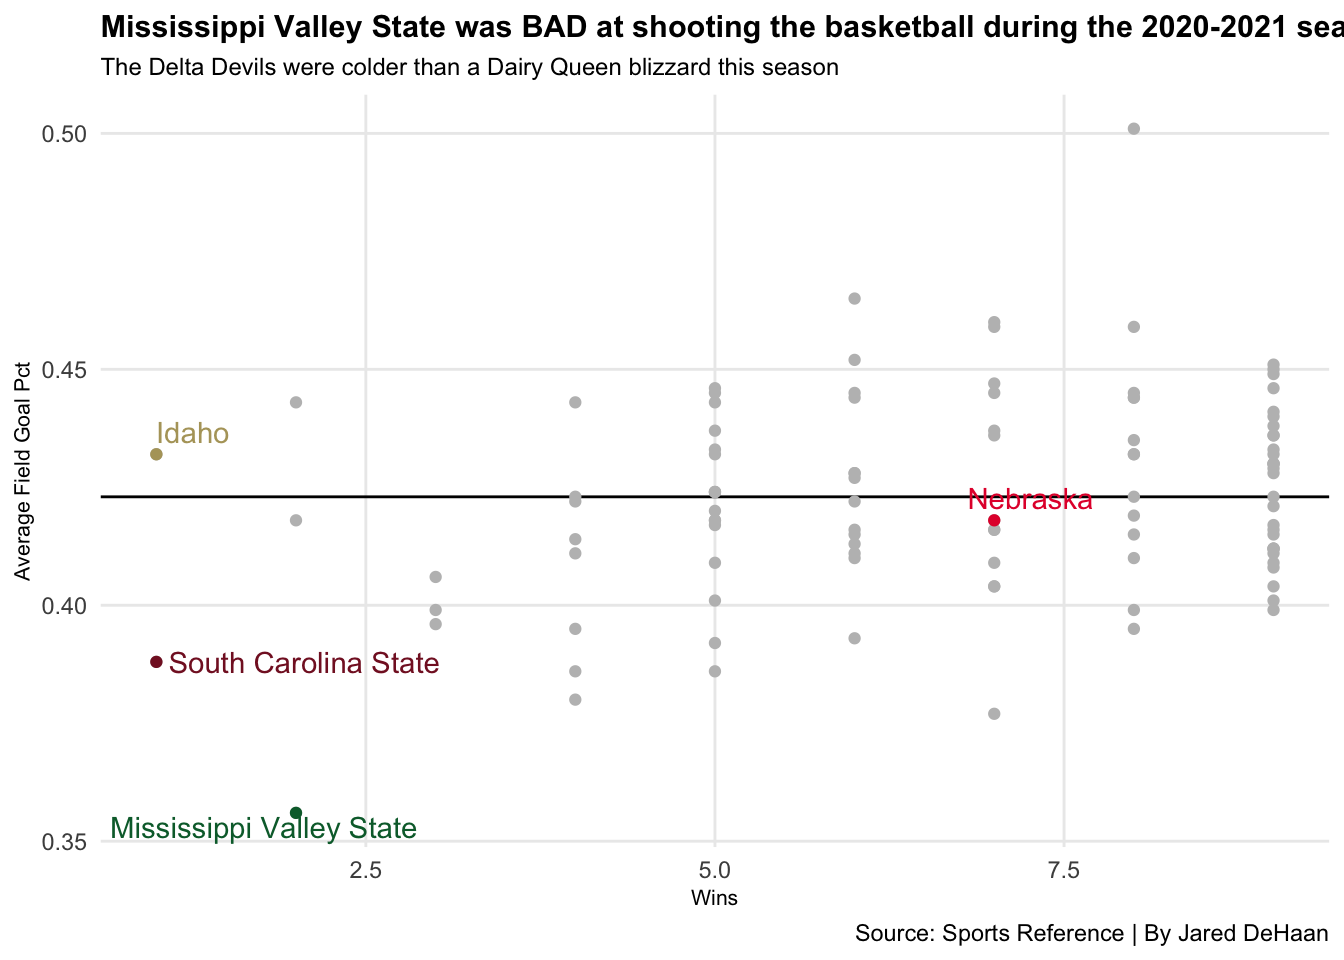
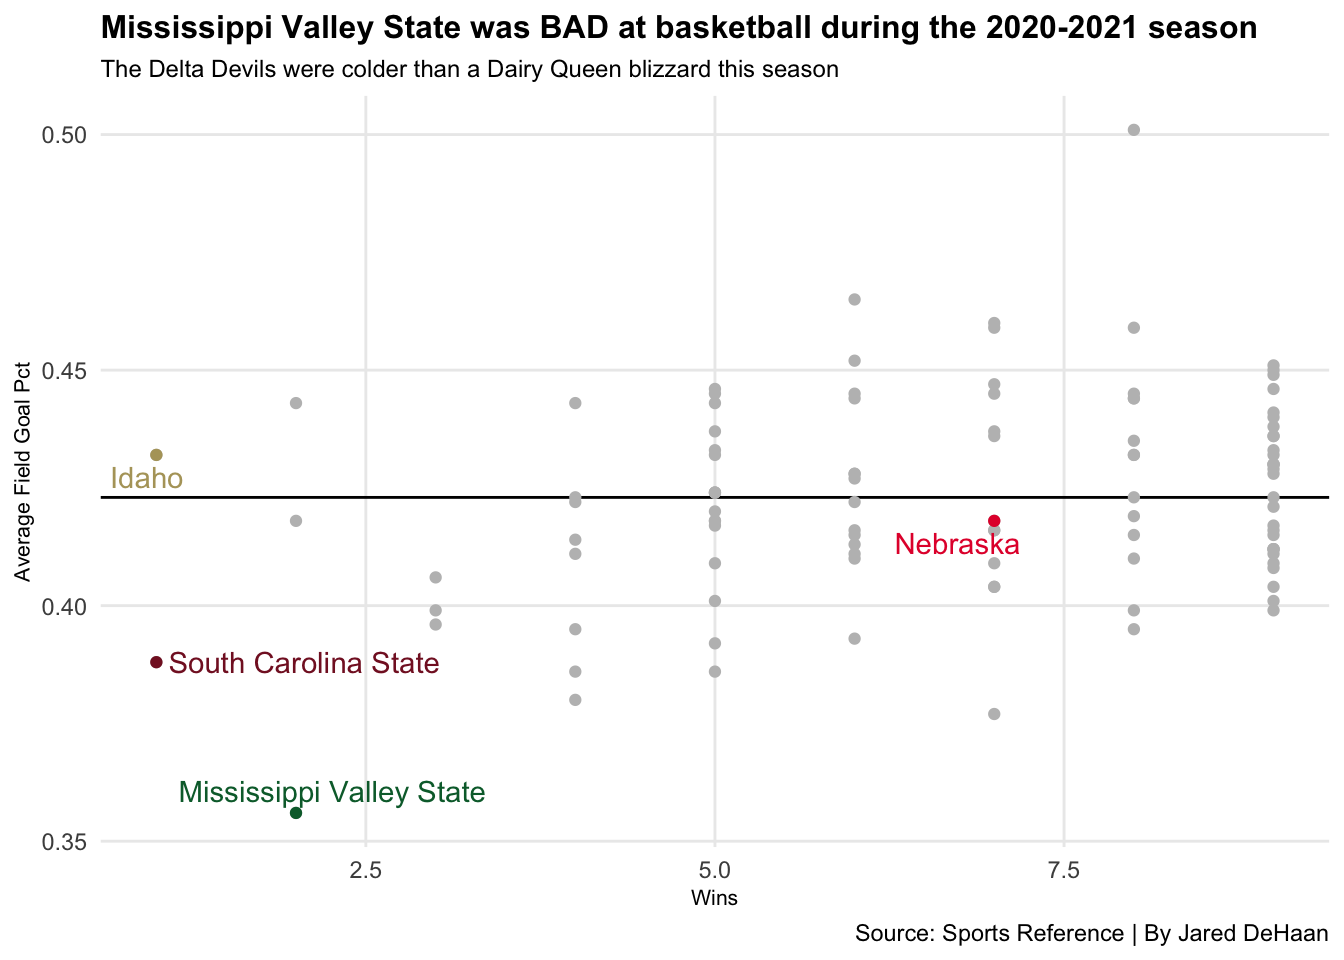
Ha

diff --git a/2021/04/21/who-was-the-worst-offensive-college-basketball-team-this-season/index.html b/2021/04/21/who-was-the-worst-offensive-college-basketball-team-this-season/index.html
@@ -184,7 +184,7 @@ library(gt)</code></pre>
   font-family: -apple-system, BlinkMacSystemFont, 'Segoe UI', Roboto, Oxygen, Ubuntu, Cantarell, 'Helvetica Neue', 'Fira Sans', 'Droid Sans', Arial, sans-serif;
 }
 
-#rtiglfirsu .gt_table {
+#kopaxzyhpr .gt_table {
   display: table;
   border-collapse: collapse;
   margin-left: auto;
@@ -209,7 +209,7 @@ library(gt)</code></pre>
   border-left-color: #D3D3D3;
 }
 
-#rtiglfirsu .gt_heading {
+#kopaxzyhpr .gt_heading {
   background-color: #FFFFFF;
   text-align: center;
   border-bottom-color: #FFFFFF;
@@ -221,7 +221,7 @@ library(gt)</code></pre>
   border-right-color: #D3D3D3;
 }
 
-#rtiglfirsu .gt_title {
+#kopaxzyhpr .gt_title {
   color: #333333;
   font-size: 125%;
   font-weight: initial;
@@ -231,7 +231,7 @@ library(gt)</code></pre>
   border-bottom-width: 0;
 }
 
-#rtiglfirsu .gt_subtitle {
+#kopaxzyhpr .gt_subtitle {
   color: #333333;
   font-size: 85%;
   font-weight: initial;
@@ -241,13 +241,13 @@ library(gt)</code></pre>
   border-top-width: 0;
 }
 
-#rtiglfirsu .gt_bottom_border {
+#kopaxzyhpr .gt_bottom_border {
   border-bottom-style: solid;
   border-bottom-width: 2px;
   border-bottom-color: #D3D3D3;
 }
 
-#rtiglfirsu .gt_col_headings {
+#kopaxzyhpr .gt_col_headings {
   border-top-style: solid;
   border-top-width: 2px;
   border-top-color: #D3D3D3;
@@ -262,7 +262,7 @@ library(gt)</code></pre>
   border-right-color: #D3D3D3;
 }
 
-#rtiglfirsu .gt_col_heading {
+#kopaxzyhpr .gt_col_heading {
   color: #333333;
   background-color: #FFFFFF;
   font-size: 100%;
@@ -282,7 +282,7 @@ library(gt)</code></pre>
   overflow-x: hidden;
 }
 
-#rtiglfirsu .gt_column_spanner_outer {
+#kopaxzyhpr .gt_column_spanner_outer {
   color: #333333;
   background-color: #FFFFFF;
   font-size: 100%;
@@ -294,15 +294,15 @@ library(gt)</code></pre>
   padding-right: 4px;
 }
 
-#rtiglfirsu .gt_column_spanner_outer:first-child {
+#kopaxzyhpr .gt_column_spanner_outer:first-child {
   padding-left: 0;
 }
 
-#rtiglfirsu .gt_column_spanner_outer:last-child {
+#kopaxzyhpr .gt_column_spanner_outer:last-child {
   padding-right: 0;
 }
 
-#rtiglfirsu .gt_column_spanner {
+#kopaxzyhpr .gt_column_spanner {
   border-bottom-style: solid;
   border-bottom-width: 2px;
   border-bottom-color: #D3D3D3;
@@ -314,7 +314,7 @@ library(gt)</code></pre>
   width: 100%;
 }
 
-#rtiglfirsu .gt_group_heading {
+#kopaxzyhpr .gt_group_heading {
   padding: 8px;
   color: #333333;
   background-color: #FFFFFF;
@@ -336,7 +336,7 @@ library(gt)</code></pre>
   vertical-align: middle;
 }
 
-#rtiglfirsu .gt_empty_group_heading {
+#kopaxzyhpr .gt_empty_group_heading {
   padding: 0.5px;
   color: #333333;
   background-color: #FFFFFF;
@@ -351,15 +351,15 @@ library(gt)</code></pre>
   vertical-align: middle;
 }
 
-#rtiglfirsu .gt_from_md > :first-child {
+#kopaxzyhpr .gt_from_md > :first-child {
   margin-top: 0;
 }
 
-#rtiglfirsu .gt_from_md > :last-child {
+#kopaxzyhpr .gt_from_md > :last-child {
   margin-bottom: 0;
 }
 
-#rtiglfirsu .gt_row {
+#kopaxzyhpr .gt_row {
   padding-top: 8px;
   padding-bottom: 8px;
   padding-left: 5px;
@@ -378,7 +378,7 @@ library(gt)</code></pre>
   overflow-x: hidden;
 }
 
-#rtiglfirsu .gt_stub {
+#kopaxzyhpr .gt_stub {
   color: #333333;
   background-color: #FFFFFF;
   font-size: 100%;
@@ -390,7 +390,7 @@ library(gt)</code></pre>
   padding-left: 12px;
 }
 
-#rtiglfirsu .gt_summary_row {
+#kopaxzyhpr .gt_summary_row {
   color: #333333;
   background-color: #FFFFFF;
   text-transform: inherit;
@@ -400,7 +400,7 @@ library(gt)</code></pre>
   padding-right: 5px;
 }
 
-#rtiglfirsu .gt_first_summary_row {
+#kopaxzyhpr .gt_first_summary_row {
   padding-top: 8px;
   padding-bottom: 8px;
   padding-left: 5px;
@@ -410,7 +410,7 @@ library(gt)</code></pre>
   border-top-color: #D3D3D3;
 }
 
-#rtiglfirsu .gt_grand_summary_row {
+#kopaxzyhpr .gt_grand_summary_row {
   color: #333333;
   background-color: #FFFFFF;
   text-transform: inherit;
@@ -420,7 +420,7 @@ library(gt)</code></pre>
   padding-right: 5px;
 }
 
-#rtiglfirsu .gt_first_grand_summary_row {
+#kopaxzyhpr .gt_first_grand_summary_row {
   padding-top: 8px;
   padding-bottom: 8px;
   padding-left: 5px;
@@ -430,11 +430,11 @@ library(gt)</code></pre>
   border-top-color: #D3D3D3;
 }
 
-#rtiglfirsu .gt_striped {
+#kopaxzyhpr .gt_striped {
   background-color: rgba(128, 128, 128, 0.05);
 }
 
-#rtiglfirsu .gt_table_body {
+#kopaxzyhpr .gt_table_body {
   border-top-style: solid;
   border-top-width: 2px;
   border-top-color: #D3D3D3;
@@ -443,7 +443,7 @@ library(gt)</code></pre>
   border-bottom-color: #D3D3D3;
 }
 
-#rtiglfirsu .gt_footnotes {
+#kopaxzyhpr .gt_footnotes {
   color: #333333;
   background-color: #FFFFFF;
   border-bottom-style: none;
@@ -457,13 +457,13 @@ library(gt)</code></pre>
   border-right-color: #D3D3D3;
 }
 
-#rtiglfirsu .gt_footnote {
+#kopaxzyhpr .gt_footnote {
   margin: 0px;
   font-size: 90%;
   padding: 4px;
 }
 
-#rtiglfirsu .gt_sourcenotes {
+#kopaxzyhpr .gt_sourcenotes {
   color: #333333;
   background-color: #FFFFFF;
   border-bottom-style: none;
@@ -477,46 +477,46 @@ library(gt)</code></pre>
   border-right-color: #D3D3D3;
 }
 
-#rtiglfirsu .gt_sourcenote {
+#kopaxzyhpr .gt_sourcenote {
   font-size: 90%;
   padding: 4px;
 }
 
-#rtiglfirsu .gt_left {
+#kopaxzyhpr .gt_left {
   text-align: left;
 }
 
-#rtiglfirsu .gt_center {
+#kopaxzyhpr .gt_center {
   text-align: center;
 }
 
-#rtiglfirsu .gt_right {
+#kopaxzyhpr .gt_right {
   text-align: right;
   font-variant-numeric: tabular-nums;
 }
 
-#rtiglfirsu .gt_font_normal {
+#kopaxzyhpr .gt_font_normal {
   font-weight: normal;
 }
 
-#rtiglfirsu .gt_font_bold {
+#kopaxzyhpr .gt_font_bold {
   font-weight: bold;
 }
 
-#rtiglfirsu .gt_font_italic {
+#kopaxzyhpr .gt_font_italic {
   font-style: italic;
 }
 
-#rtiglfirsu .gt_super {
+#kopaxzyhpr .gt_super {
   font-size: 65%;
 }
 
-#rtiglfirsu .gt_footnote_marks {
+#kopaxzyhpr .gt_footnote_marks {
   font-style: italic;
   font-size: 65%;
 }
 </style>
-<div id="rtiglfirsu" style="overflow-x:auto;overflow-y:auto;width:auto;height:auto;"><table class="gt_table">
+<div id="kopaxzyhpr" style="overflow-x:auto;overflow-y:auto;width:auto;height:auto;"><table class="gt_table">
   <thead class="gt_header">
     <tr>
       <th colspan="6" class="gt_heading gt_title gt_font_normal" style="color: green; text-align: left; font-weight: bold;">Mississippi Valley State had little going for them this season</th>
@@ -648,10 +648,10 @@ neb &lt;- badteams %&gt;%
 <pre class="r"><code>ggplot(badteams, aes(x=`OverallW`, y=`FG%`)) +
   geom_hline(yintercept = 0.4229808) +
 geom_point(color=&quot;grey&quot;) + 
-  labs(x=&quot;Wins&quot;, y=&quot;Average Field Goal Pct&quot;, title=&quot;Mississippi Valley State was BAD at shooting the basketball during the 2020-2021 season&quot;, subtitle=&quot;The Delta Devils were colder than a Dairy Queen blizzard this season&quot;, caption=&quot;Source: Sports Reference | By Jared DeHaan&quot;) + 
+  labs(x=&quot;Wins&quot;, y=&quot;Average Field Goal Pct&quot;, title=&quot;Mississippi Valley State was BAD at basketball during the 2020-2021 season&quot;, subtitle=&quot;The Delta Devils were colder than a Dairy Queen blizzard this season&quot;, caption=&quot;Source: Sports Reference | By Jared DeHaan&quot;) + 
   theme_minimal() + 
   theme(
-    plot.title = element_text(size = 11.5, face = &quot;bold&quot;),
+    plot.title = element_text(size = 12, face = &quot;bold&quot;),
     axis.title = element_text(size = 8), 
     plot.subtitle = element_text(size=9), 
     panel.grid.minor = element_blank()
@@ -686,9 +686,9 @@ nebft &lt;- badftshootingteams %&gt;%
 labs(x=&quot;&quot;, y=&quot;Free Throw Percentage&quot;, title=&quot;Mississippi Valley State might need to reconsider their basketball program&quot;, subtitle=&quot;Delta Devils at the bottom again and Nebraska is the lone Power Five team&quot;, caption=&quot;Source: Sports Reference | By Jared DeHaan&quot;) + 
   theme_minimal() + 
   theme(
-    plot.title = element_text(size = 11, face = &quot;bold&quot;, color = &quot;red&quot;),
-    axis.title = element_text(size = 8), 
-    plot.subtitle = element_text(size=8.5), 
+    plot.title = element_text(size = 10.5, face = &quot;bold&quot;, color = &quot;red&quot;),
+    axis.title = element_text(size = 7.5), 
+    plot.subtitle = element_text(size=8), 
     panel.grid.minor = element_blank()
     ) +
   coord_flip()</code></pre>
